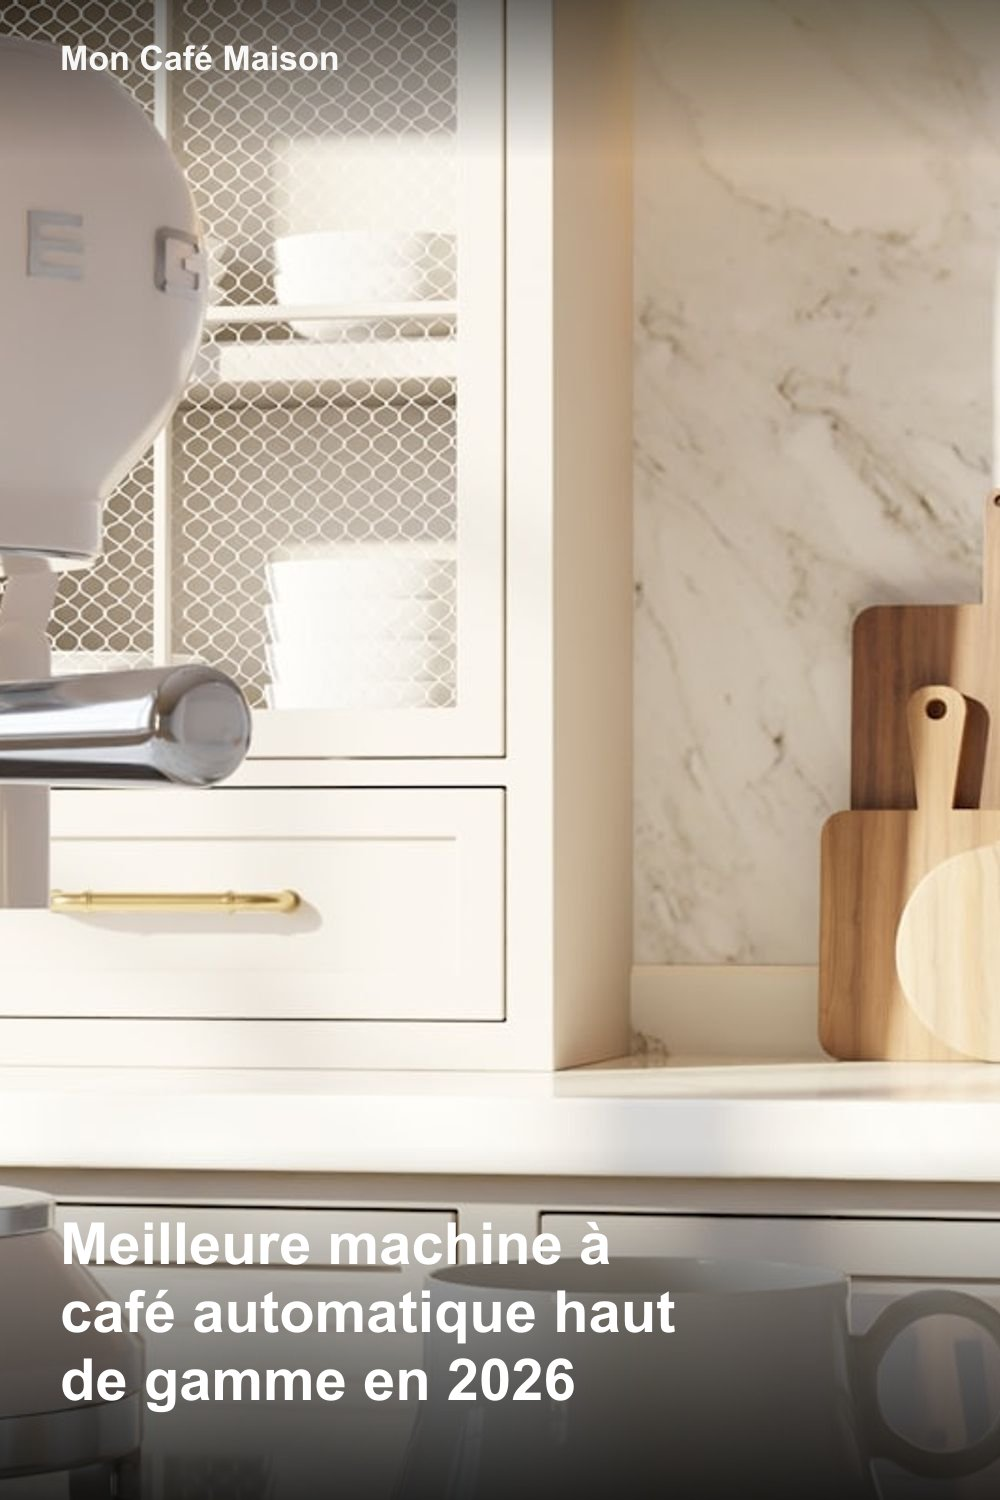
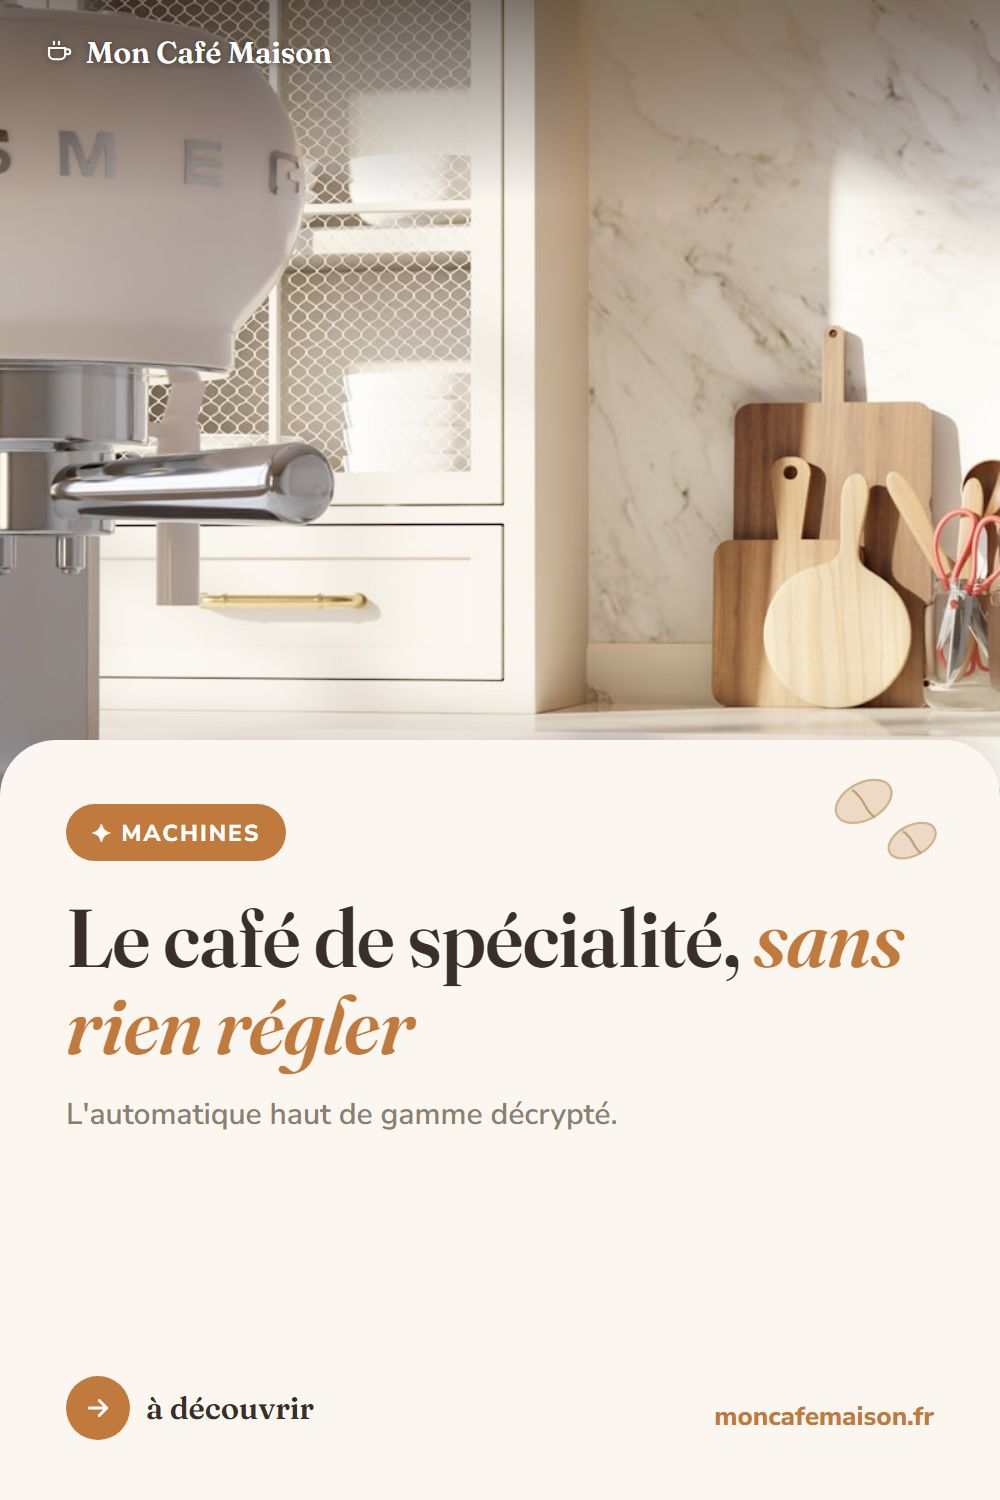
Epingles Pinterest redesignees (accroche + carte + branding) + accroches pinHook + couvertures locales

diff --git a/src/content/articles/machine-cafe-automatique-haut-gamme.md b/src/content/articles/machine-cafe-automatique-haut-gamme.md
@@ -3,6 +3,8 @@ title: "Meilleure machine à café automatique haut de gamme en 2026"
 description: "Broyeur, carafe à lait automatique, appli connectée : comment choisir une machine à café automatique haut de gamme sans se tromper."
 pubDate: 2026-08-22
 author: "Rédaction"
+pinHook: "Le café de spécialité, *sans rien régler*"
+pinSub: "L'automatique haut de gamme décrypté."
 keywords: ["machine à café automatique haut de gamme", "meilleure machine automatique avec broyeur", "cafetière automatique haut de gamme", "machine à café automatique haut de gamme 2026"]
 category: "machines"
 coverAlt: "Machine à expresso au design rétro posée sur un plan de travail dans une cuisine lumineuse en marbre, avec une tasse au premier plan"

diff --git a/src/content/articles/machine-expresso-broyeur-integre.md b/src/content/articles/machine-expresso-broyeur-integre.md
@@ -3,6 +3,8 @@ title: "Machine expresso avec broyeur intégré en 2026 : lequel choisir ?"
 description: "Grains fraîchement moulus et vrai porte-filtre dans le même appareil : nos critères pour choisir une machine expresso avec broyeur intégré."
 pubDate: 2026-08-20
 author: "Rédaction"
+pinHook: "Grains frais *et* espresso en un appareil"
+pinSub: "Le broyeur intégré, bien choisi."
 keywords: ["machine expresso avec broyeur intégré", "expresso broyeur intégré", "machine à café broyeur porte-filtre", "machine expresso avec broyeur intégré 2026"]
 category: "machines"
 coverAlt: "Gros plan d'un espresso qui coule d'un porte-filtre en inox, avec une belle crema"

diff --git a/src/content/articles/cafetiere-dosette-souple-ese.md b/src/content/articles/cafetiere-dosette-souple-ese.md
@@ -3,6 +3,8 @@ title: "Cafetière à dosettes souples (ESE) en 2026 : laquelle choisir ?"
 description: "Dosette souple ou dosette ESE : quelle différence, et quelle cafetière choisir pour un café simple, économique et sans prise de tête."
 pubDate: 2026-08-23
 author: "Rédaction"
+pinHook: "Un café simple, *sans prise de tête*"
+pinSub: "La dosette souple, bien choisie."
 keywords: ["cafetière dosette souple", "dosette ese", "meilleure cafetière dosette souple 2026", "cafetière dosette pas cher"]
 category: "machines"
 coverAlt: "Double filet d'expresso s'écoulant dans un verre gradué sous la buse d'une machine à café, avec la crema qui se forme en surface"

diff --git a/src/content/articles/meilleure-cafetiere-filtre-programmable.md b/src/content/articles/meilleure-cafetiere-filtre-programmable.md
@@ -3,6 +3,8 @@ title: "Meilleure cafetière filtre programmable en 2026 : le comparatif"
 description: "Programmer son café la veille pour se réveiller avec une carafe chaude : notre guide pour choisir la bonne cafetière filtre programmable."
 pubDate: 2026-08-16
 author: "Rédaction"
+pinHook: "Le café du matin, *prêt au réveil*"
+pinSub: "La filtre programmable idéale."
 keywords: ["cafetière filtre programmable", "meilleure cafetière filtre", "cafetière programmable minuterie", "meilleure cafetière filtre programmable 2026"]
 category: "machines"
 coverAlt: "Tasses blanches empilées devant une machine à café sur un plan de travail de cuisine"

diff --git a/src/content/articles/moulin-cafe-meules-ou-lames.md b/src/content/articles/moulin-cafe-meules-ou-lames.md
@@ -3,6 +3,8 @@ title: "Moulin à meules ou à lames : la vraie différence en 2026"
 description: "Moulin à café à meules ou à lames : quelle différence sur le goût, et lequel choisir selon votre café ? Nos explications claires et notre sélection."
 pubDate: 2026-08-24
 author: "Rédaction"
+pinHook: "Meules ou lames ? *La vraie différence*"
+pinSub: "Le choix qui change le goût."
 keywords: ["moulin à café meules ou lames", "moulin à meules", "moulin à café à lames", "meilleur moulin à meules"]
 category: "moulins"
 coverAlt: "Grains de café dans la trémie d'un moulin manuel à meules avec sa manivelle, posé sur un plan de travail clair"

diff --git a/src/content/articles/meilleure-cafetiere-grains.md b/src/content/articles/meilleure-cafetiere-grains.md
@@ -3,6 +3,8 @@ title: "Meilleure machine à café à grains en 2026 : notre comparatif"
 description: "Quelle machine à café à grains choisir pour un bon café maison sans se ruiner ? Nos critères et notre sélection de modèles fiables."
 pubDate: 2026-08-16
 author: "Rédaction"
+pinHook: "Du grain à la tasse, *sans effort*"
+pinSub: "La machine à grains, comparée."
 keywords: ["machine à café à grains", "meilleure machine à grains", "cafetière à grains avec broyeur", "meilleure machine à café à grains 2026"]
 category: "machines"
 coverImage: "https://images.unsplash.com/photo-1620807773206-49c1f2957417?q=80&w=1600&auto=format&fit=crop"

diff --git a/src/content/articles/meilleur-moulin-cafe-electrique.md b/src/content/articles/meilleur-moulin-cafe-electrique.md
@@ -3,6 +3,8 @@ title: "Meilleur moulin à café électrique en 2026 : le comparatif"
 description: "Quel moulin à café électrique choisir pour une mouture fraîche et régulière ? Meules vs lames, nos critères et notre sélection."
 pubDate: 2026-08-16
 author: "Rédaction"
+pinHook: "La mouture fraîche, *en un bouton*"
+pinSub: "Le moulin électrique qui change tout."
 keywords: ["moulin à café électrique", "meilleur moulin à café", "moulin à café à meules", "meilleur moulin à café électrique 2026"]
 category: "moulins"
 coverImage: "https://images.unsplash.com/photo-1573628684835-ca186702bbde?q=80&w=1600&auto=format&fit=crop"

diff --git a/src/content/articles/meilleur-mousseur-lait.md b/src/content/articles/meilleur-mousseur-lait.md
@@ -3,6 +3,8 @@ title: "Meilleur mousseur à lait en 2026 : cappuccino et latte maison"
 description: "Quel mousseur à lait choisir pour une mousse onctueuse à la maison ? Pichet chauffant ou fouet portable : nos critères et notre sélection."
 pubDate: 2026-08-16
 author: "Rédaction"
+pinHook: "Cappuccino et latte *maison*"
+pinSub: "La mousse de lait parfaite, bien choisie."
 keywords: ["mousseur à lait", "meilleur mousseur à lait", "mousseur à lait électrique", "meilleur mousseur à lait 2026"]
 category: "accessoires"
 coverImage: "https://images.unsplash.com/photo-1432107294469-414527cb5c65?q=80&w=1600&auto=format&fit=crop"

diff --git a/src/content/articles/meilleure-machine-expresso.md b/src/content/articles/meilleure-machine-expresso.md
@@ -3,6 +3,8 @@ title: "Meilleure machine expresso en 2026 : notre comparatif débutant"
 description: "Quelle machine expresso choisir pour débuter à la maison ? Porte-filtre ou capsules : nos critères et notre sélection abordable."
 pubDate: 2026-08-16
 author: "Rédaction"
+pinHook: "Un vrai espresso *sans se ruiner*"
+pinSub: "La machine pour débuter, bien choisie."
 keywords: ["machine expresso", "meilleure machine expresso débuter", "machine expresso pas cher", "meilleure machine expresso 2026"]
 category: "machines"
 coverImage: "https://images.unsplash.com/photo-1583165278997-0250ea5d72e2?q=80&w=1600&auto=format&fit=crop"

diff --git a/src/content/articles/meilleure-cafetiere-piston-french-press.md b/src/content/articles/meilleure-cafetiere-piston-french-press.md
@@ -3,6 +3,8 @@ title: "Meilleure cafetière à piston (French press) en 2026"
 description: "La cafetière à piston est la façon la plus simple d'obtenir un café riche. Nos critères et notre sélection, verre ou inox."
 pubDate: 2026-08-16
 author: "Rédaction"
+pinHook: "Le café le plus simple, *le plus corsé*"
+pinSub: "La French press, réussie."
 keywords: ["cafetière à piston", "french press", "meilleure cafetière à piston", "meilleure cafetière à piston 2026"]
 category: "machines"
 coverImage: "https://images.unsplash.com/photo-1595928642581-f50f4f3453a5?q=80&w=1600&auto=format&fit=crop"

diff --git a/src/content/articles/machine-capsules-vs-machine-grains.md b/src/content/articles/machine-capsules-vs-machine-grains.md
@@ -3,6 +3,8 @@ title: "Machine à capsules vs machine à grains : quel système choisir ?"
 description: "Café en capsules ou machine à grains : lequel choisir selon ton budget, ton temps et le goût recherché ? Notre comparatif honnête."
 pubDate: 2026-08-16
 author: "Rédaction"
+pinHook: "Capsules ou grains ? *Le vrai match*"
+pinSub: "Quel système pour quel profil."
 keywords: ["machine à capsules vs machine à grains", "capsules ou grains café", "quelle cafetière choisir"]
 category: "machines"
 coverAlt: "Coin café dans une cuisine : machine à espresso et moulin rempli de grains de café"

diff --git a/src/content/articles/balance-cafe-precision.md b/src/content/articles/balance-cafe-precision.md
@@ -3,6 +3,8 @@ title: "Balance à café de précision : pourquoi (et laquelle) choisir"
 description: "Doser au gramme près change la régularité de ton café. Nos critères et notre sélection de balances de précision avec minuterie."
 pubDate: 2026-08-16
 author: "Rédaction"
+pinHook: "Doser *au gramme près*, comme un barista"
+pinSub: "La précision qui transforme la tasse."
 keywords: ["balance à café", "balance de précision café", "balance café minuterie"]
 category: "accessoires"
 coverImage: "https://images.unsplash.com/photo-1587734195503-904fca47e0e9?q=80&w=1600&auto=format&fit=crop"
